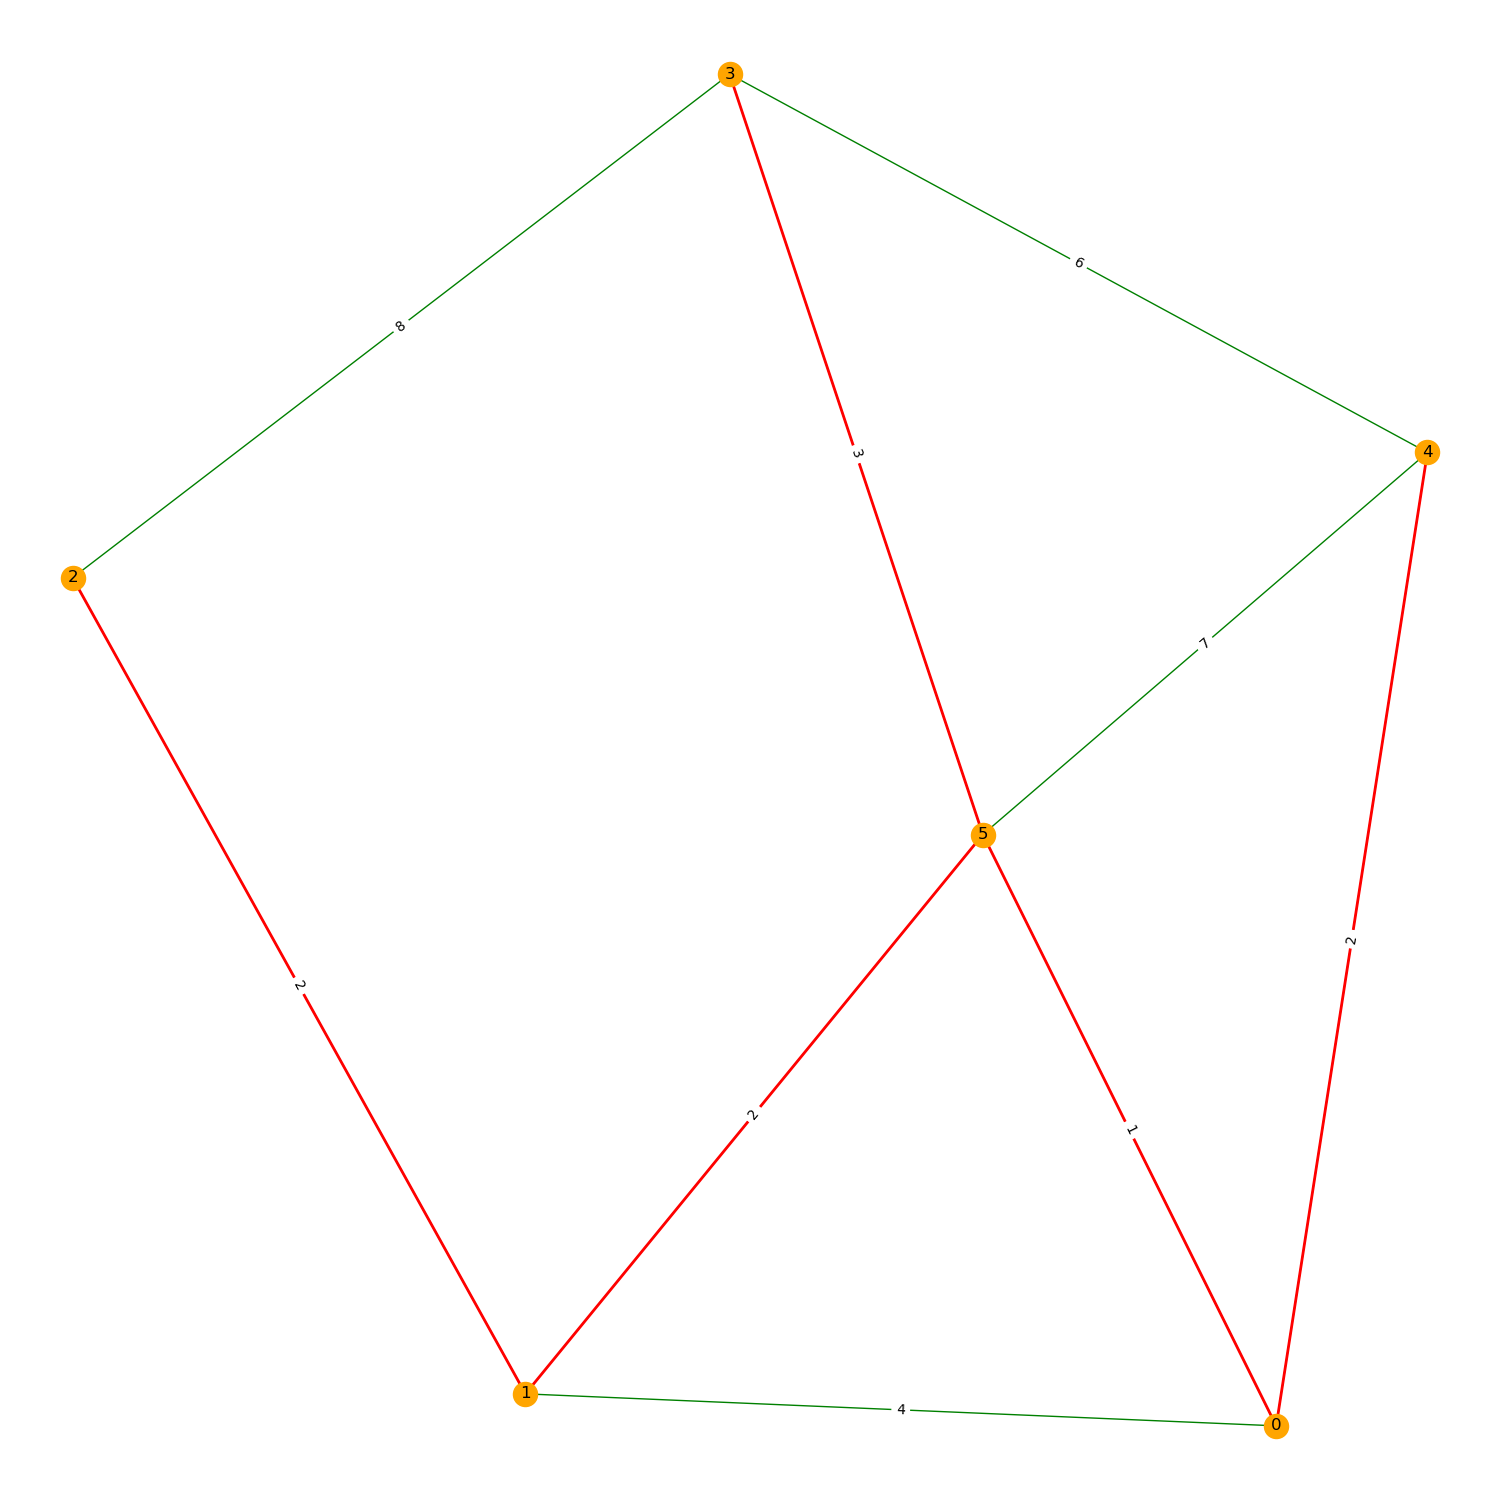
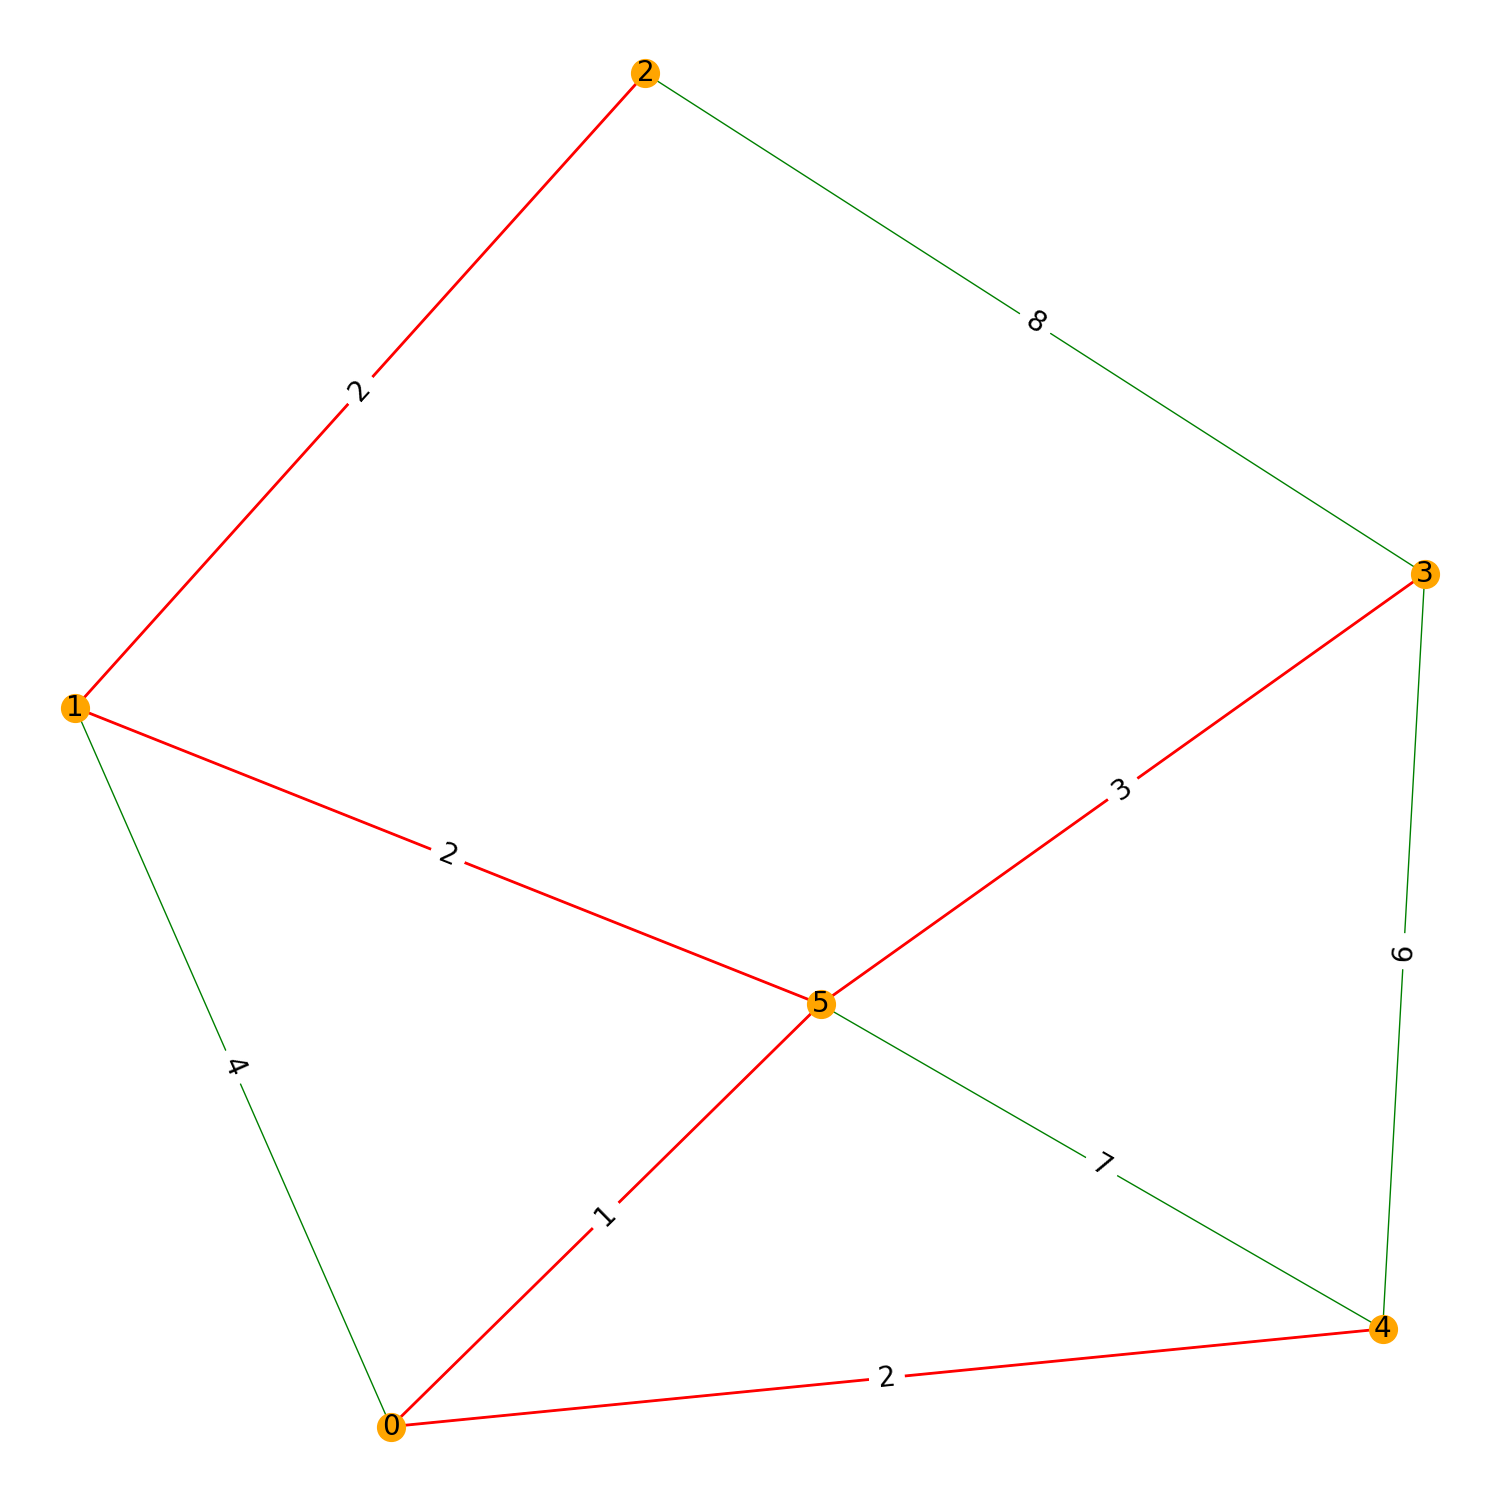
impriovements

diff --git a/graphs.py b/graphs.py
@@ -83,6 +83,9 @@ class Stack:
     def remove_element(self, element):
         self.stack.remove(element)
 
+    def clear_stack(self):
+        self.stack.clear()
+
     def __str__(self):
         return str(self.stack)
 
@@ -112,6 +115,7 @@ class Cycle:
         current_vertex = self.vertexes_list[0]
         visited = dict([key, False] for key in self.vertexes_list)
         stack = Stack()
+        stack.clear_stack()
         stack.push(current_vertex)
         visited[current_vertex] = True
         while not stack.empty():
@@ -126,10 +130,12 @@ class Cycle:
         return visited
 
     def cycle_check(self):
+
         self.get_all_vertex_nbr()
         current_vertex = self.vertexes_list[0]
         visited = dict([key, False] for key in self.vertexes_list)
         stack = Stack()
+        stack.clear_stack()
         stack.push(current_vertex)
         stack.push(-1)
         visited[current_vertex] = True
@@ -219,26 +225,36 @@ edges = ([('v0', 'v1', 4),
           ('v4', 'v5', 7),
           ('v3', 'v5', 3)])
 
+# edges = ([('v0', 'v1', 4),
+#           ('v1', 'v2', 2),
+#           ('v2', 'v3', 20),
+#           ('v1', 'v4', 3),
+#           ('v1', 'v5', 10),
+#           ('v4', 'v5', 6)])
+
 g = Graph(edges)
-def generate_plot(g: Graph, min_span_tree = False):
+
+
+def generate_plot(g: Graph, min_span_tree=False):
+    weight_sum = None
     A = np.matrix(g.adjacency)
     G = nx.from_numpy_matrix(A)
     pos = nx.spring_layout(G)
-    nx.draw(G, pos, with_labels=True, node_color='orange', edge_color='green')
-    nx.draw_networkx_edge_labels(G, pos, edge_labels=g.convert_edges_list_to_dict())
+    nx.draw(G, pos, with_labels=True, node_color='orange', edge_color='green', font_size=20, node_size=400)
+    nx.draw_networkx_edge_labels(G, pos, edge_labels=g.convert_edges_list_to_dict(), font_size=20)
     if min_span_tree:
         tree = MinimumSpanningTree(g)
         z, weight_sum, tree_edges = tree.generate_min_tree()
         tree_edges = [(int(f[-1]), int(t[-1])) for f, t, *args in tree_edges]
         nx.draw_networkx_edges(G, pos, edgelist=tree_edges, edge_color='r', width=2)
     plt.axis('off')
-    # plt.figtext(.5, .9, f"Spanning Tree weight sum = {weight_sum}", color='r')
     os.remove("static/images/graph") if "graph" in os.listdir("static/images") else None
     os.remove("static/images/graph.jpg") if 'graph.jpg' in os.listdir("static/images") else None
     plt.savefig("static/images/graph", format="png")
     os.chdir("static/images")
     os.rename('graph', 'graph.jpg')
-    plt.show()
+    return weight_sum
+    # plt.show()
 
 
 generate_plot(g, min_span_tree=True)

diff --git a/web_graph.py b/web_graph.py
@@ -1,13 +1,14 @@
 from flask import Flask, render_template, url_for, redirect, request
 
 
+
 app = Flask(__name__)
+app.config['SECRET_KEY'] = 'fadshfkjadshkfhadsjfhjds'
+
 
 @app.route("/")
 def index():
-    return '<img src="static/images/graph.jpg" width="800px" height="800px">'
-
-
+    return '<img src="static/images/graph.jpg" width="800px" height="600px">'
 
 
 if __name__ == "__main__":
